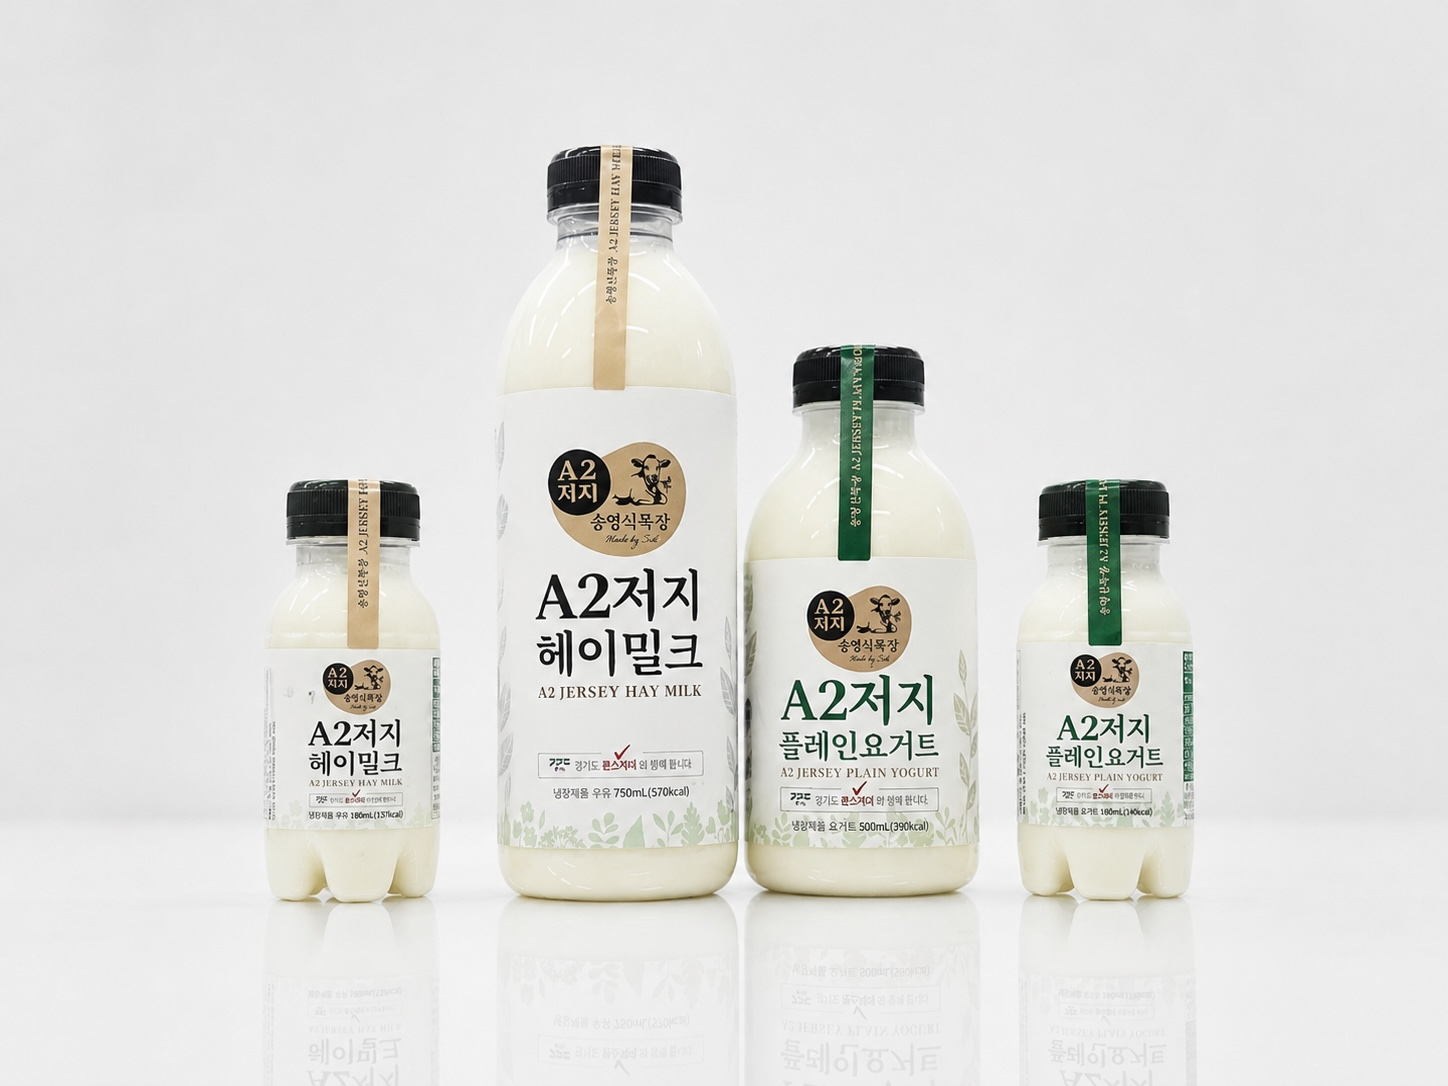
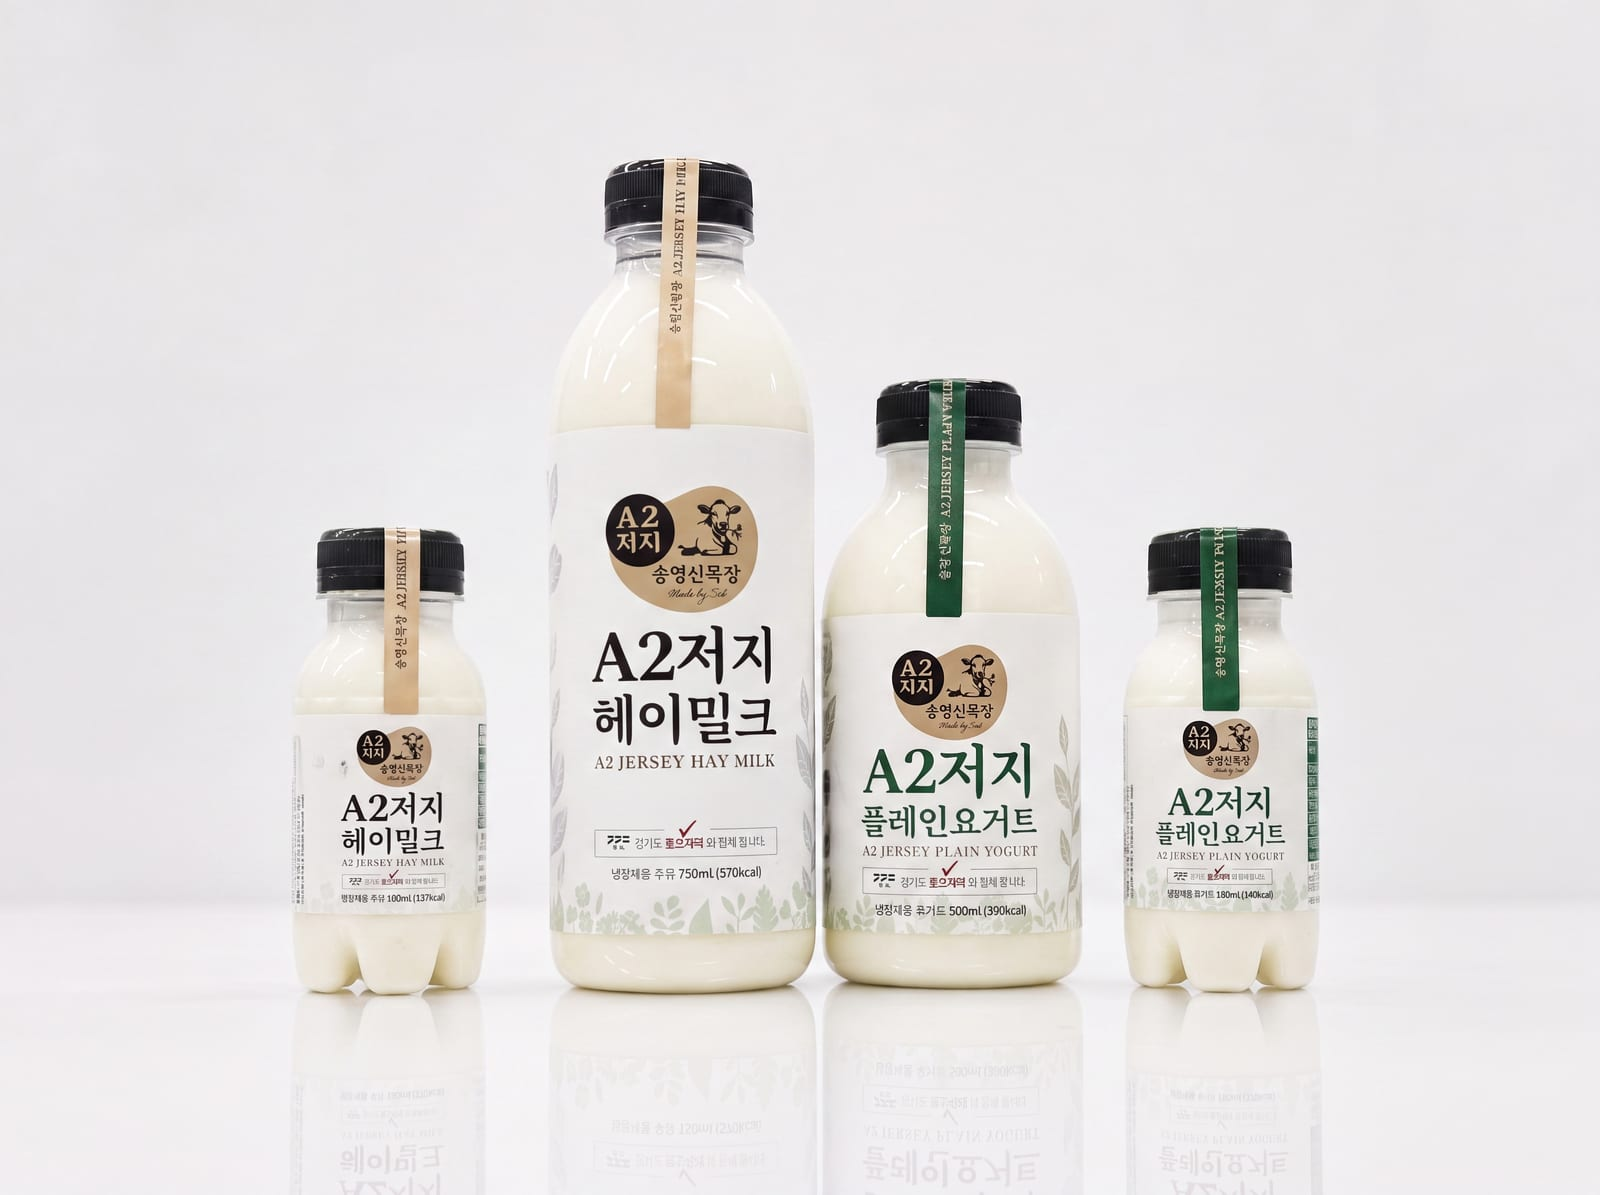
feat(hero): 히어로 제품사진 교체 — 송영신목장 4종 라인업 신규 컷
- public/brand/hero-row-white.jpg 를 신규 4종 라인업 촬영본으로 교체
  (송영신목장 A2 저지: 헤이밀크 750mL/100mL, 플레인요거트 500mL/180mL)
- 원본 4800×3584 PNG(18MB)를 1600×1195 JPG(95KB, mozjpeg q82)로 최적화
  → 기존 243KB보다 가벼우면서 해상도는 상향
- Hero.tsx 의 Image width/height 를 신규 비율(1600×1195)에 맞춰 갱신해 왜곡 방지

Claude-Session: https://claude.ai/code/session_01WiHMkmBkDoeRTYniyqiJ1f

diff --git a/components/Hero.tsx b/components/Hero.tsx
@@ -57,13 +57,13 @@ export function Hero() {
           </div>
         </div>
 
-        {/* Product visual — 흰배경 정렬샷(1448×1086) */}
+        {/* Product visual — 흰배경 정렬샷(1600×1195) */}
         <div className="flex justify-center">
           <Image
             src="/brand/hero-row-white.jpg"
             alt="송영신목장 A2 저지 헤이밀크 제품 라인업"
-            width={1448}
-            height={1086}
+            width={1600}
+            height={1195}
             priority
             sizes="(max-width:1024px) 86vw, 50vw"
             className="h-auto w-[86%] max-w-[520px] object-contain lg:w-full lg:max-w-[600px]"